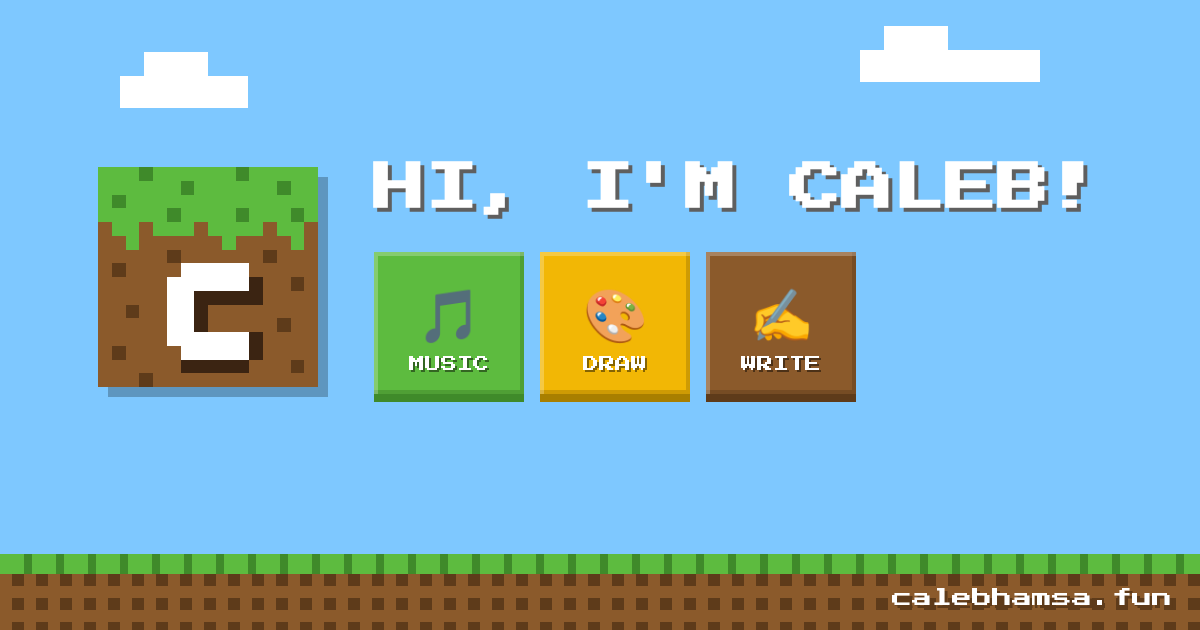
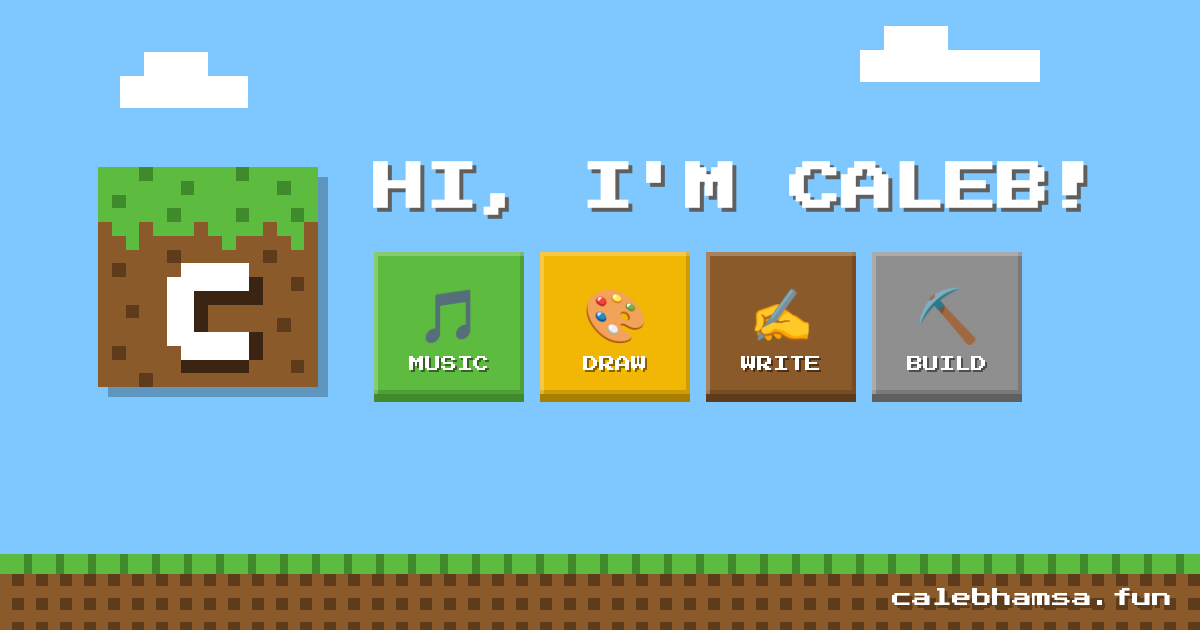
Share card: add the Build block

Changed region(s): [[0.7092, 0.3921, 0.8633, 0.6635]]

diff --git a/index.html b/index.html
@@ -36,7 +36,7 @@
   <meta property="og:image" content="https://calebhamsa.fun/img/share-card.png">
   <meta property="og:image:width" content="1200">
   <meta property="og:image:height" content="630">
-  <meta property="og:image:alt" content="HI, I'M CALEB! with music, draw and write blocks on grass">
+  <meta property="og:image:alt" content="HI, I'M CALEB! with music, draw, write and build blocks on grass">
   <meta name="twitter:card" content="summary_large_image">
   <!-- The pixel font, from Google Fonts (free to use). -->
   <link rel="preconnect" href="https://fonts.googleapis.com">

diff --git a/img/share-card.html b/img/share-card.html
@@ -61,6 +61,7 @@
         <span class="block big grass"><span class="icon-emoji">🎵</span>MUSIC</span>
         <span class="block big gold"><span class="icon-emoji">🎨</span>DRAW</span>
         <span class="block big dirt"><span class="icon-emoji">✍</span>WRITE</span>
+        <span class="block big"><span class="icon-emoji">⛏</span>BUILD</span>
       </div>
     </div>
   </div>
